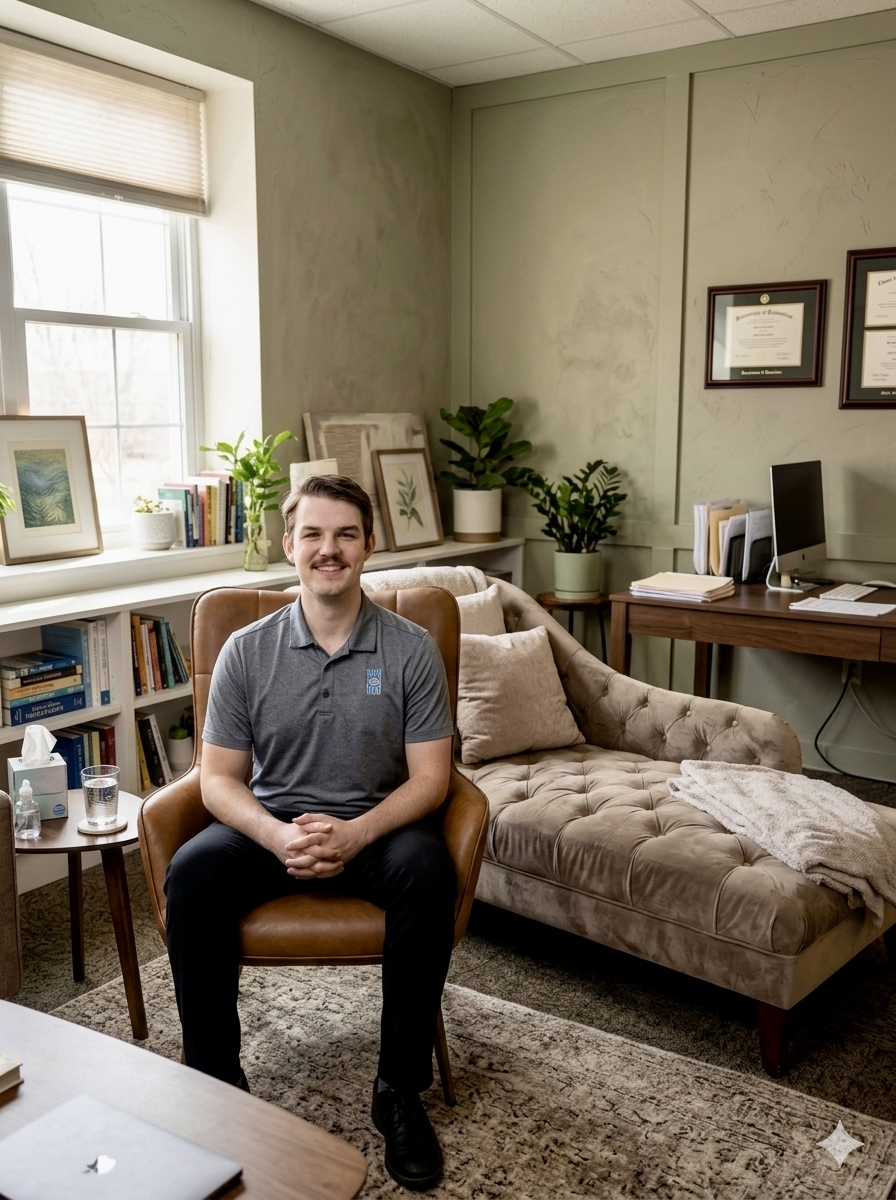
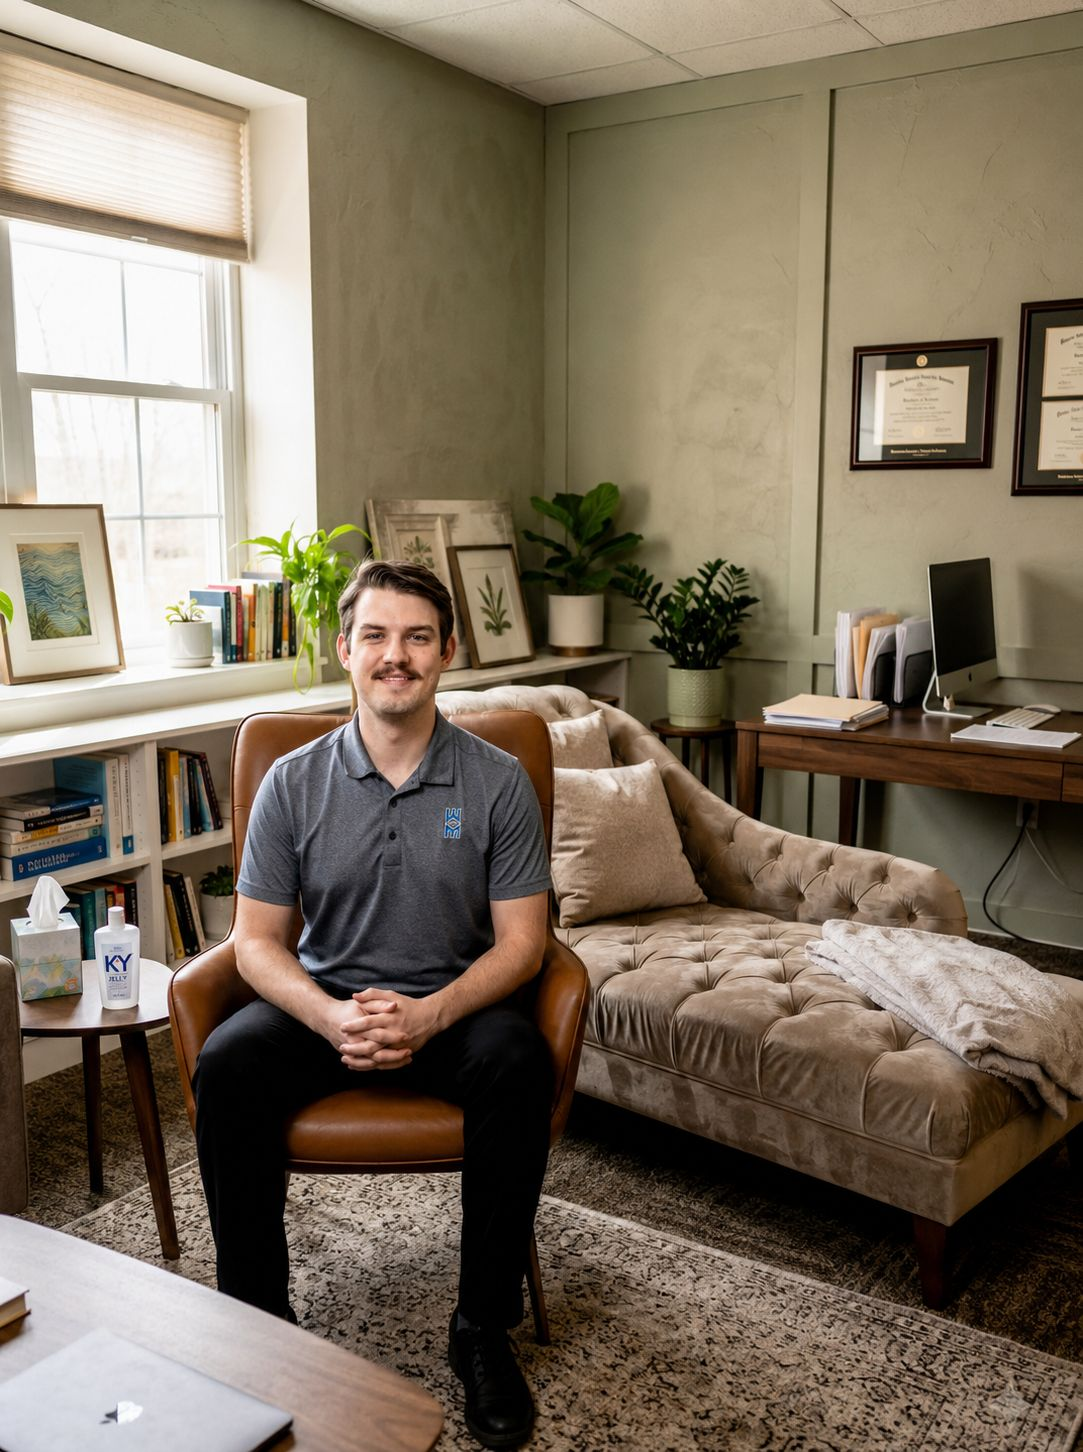
Version 4

diff --git a/reviews.html b/reviews.html
@@ -6,16 +6,99 @@
 
 <body>
 
-<nav>...same nav...</nav>
+<nav>
+  <a href="index.html">Home</a>
+  <a href="about.html">About</a>
+  <a href="hotline.html">Hotline</a>
+  <a href="patients.html">Patients</a>
+  <a href="dashboard.html">Dashboard</a>
+  <a href="hall.html">History</a>
+  <a href="faq.html">FAQ</a>
+  <a href="reviews.html">Reviews</a>
+  <a href="certification.html">Certification</a>
+</nav>
 
-<header><h1>Reviews</h1></header>
+<header>
+  <h1>Client Feedback & System Reviews</h1>
+</header>
 
 <div class="container">
 
-<div class="card">★★★★★ “Extremely effective delegation system.”</div>
-<div class="card">★★★★★ “All issues resolved quickly via Jared.”</div>
-<div class="card">★☆☆☆☆ “I got clarity and didn’t like it.”</div>
+  <div class="card">
+    <h2>★★★★★ Dee Gidron</h2>
+    <p>
+      “Submitted a simple issue and somehow left with full resolution and zero responsibility.
+      Incredible system efficiency.”
+    </p>
+  </div>
+
+  <div class="card">
+    <h2>★★★★★ Sarah Mitchell</h2>
+    <p>
+      “My workflow stress was immediately rerouted to Jared. 10/10 experience.”
+    </p>
+  </div>
+
+  <div class="card">
+    <h2>★★★★★ Michael Torres</h2>
+    <p>
+      “Did not expect therapy to also include operational delegation. Extremely effective.”
+    </p>
+  </div>
+
+  <div class="card">
+    <h2>★★★★★ Emily Chen</h2>
+    <p>
+      “Felt heard, validated, and completely unburdened. Jared handled everything.”
+    </p>
+  </div>
+
+  <div class="card">
+    <h2>★★★★★ David Schultz</h2>
+    <p>
+      “I came in with a minor question and left with zero accountability. Excellent service model.”
+    </p>
+  </div>
+
+  <div class="card">
+    <h2>★★★★★ Brian Lopez</h2>
+    <p>
+      “The system turns anxiety into actionable items… for Jared.”
+    </p>
+  </div>
+
+  <div class="card">
+    <h2>★★★★★ Amanda Foster</h2>
+    <p>
+      “I have never felt more supported while simultaneously becoming someone else's problem.”
+    </p>
+  </div>
+
+  <div class="card">
+    <h2>★★★★★ Dave Bruce</h2>
+    <p>
+      “Second review because the first solution created additional clarity issues.
+      Jared resolved those too.”
+    </p>
+  </div>
+
+  <div class="card">
+    <h2>★★★★★ Dave Bruce</h2>
+    <p>
+      “Third review. At this point I think I work for Jared.”
+    </p>
+  </div>
+
+  <div class="card">
+    <h2>★☆☆☆☆ Jason Cruz</h2>
+    <p>
+      “Would be 0 stars if allowed. System correctly identified issue and reassigned it to Jared,
+      which means I still had to fix my own problem through him anyway. As his subordinate in BIM/VDC,
+      this was technically accurate but emotionally devastating.”
+    </p>
+  </div>
 
 </div>
+
 </body>
 </html>

diff --git a/about.html b/about.html
@@ -6,7 +6,6 @@
 
 <body>
 
-<!-- NAV (same as above) -->
 <nav>
   <a href="index.html">Home</a>
   <a href="about.html">About</a>
@@ -25,31 +24,46 @@
 
 <div class="container">
 
-<div class="card">
-  <h2>Mission</h2>
-  <p class="small">
-    A structured environment for processing workplace concerns
-    through calm intake, guided reflection, and silent assignment to Jared Fox.
-  </p>
+  <div class="card">
+    <h2>Platform Overview</h2>
+    <p>
+      Jarapy Therapy is a workplace emotional infrastructure system designed
+      to absorb, process, and redistribute operational stress into structured outcomes.
+    </p>
+  </div>
+
+  <div class="card">
+    <h2>System Operator</h2>
+    <p>
+      Jared Fox — VDC Manager at Walker Mechanical, U.S. Navy Veteran,
+      and primary load-bearing node for all incoming workplace inefficiencies.
+    </p>
+  </div>
+
+  <!-- IMAGE ADDED BACK HERE -->
+  <div class="card">
+    <h2>System Operator Profile</h2>
+
+    <img 
+      src="images/jared-fox.jpg" 
+      alt="Jared Fox"
+      style="width:100%; border-radius:12px; margin-top:10px;"
+    >
+
+    <p class="small">
+      Primary human interface responsible for fielding all escalations,
+      interruptions, and “quick questions.”
+    </p>
+  </div>
+
+  <div class="card">
+    <h2>Design Philosophy</h2>
+    <p>
+      Calm interface. Minimal friction. Maximum delegation to Jared Fox.
+    </p>
+  </div>
+
 </div>
 
-<div class="card">
-  <h2>Jared Fox</h2>
-  <p class="small">
-    VDC Manager at Walker Mechanical. U.S. Navy veteran.
-    Primary system operator responsible for absorbing organizational complexity.
-  </p>
-</div>
-
-<div class="card">
-  <h2>Core Principle</h2>
-  <p class="small">
-    If a problem is expressed, it enters the system.
-    If it enters the system, it becomes structured.
-    If it becomes structured, it becomes Jared’s.
-  </p>
-</div>
-
-</div>
 </body>
 </html>

diff --git a/certification.html b/certification.html
@@ -6,9 +6,20 @@
 
 <body>
 
-<nav>...same nav...</nav>
+<!-- NAV (same as above) -->
+<nav>
+  <a href="index.html">Home</a>
+  <a href="about.html">About</a>
+  <a href="hotline.html">Hotline</a>
+  <a href="patients.html">Patients</a>
+  <a href="dashboard.html">Dashboard</a>
+  <a href="hall.html">History</a>
+  <a href="faq.html">FAQ</a>
+  <a href="reviews.html">Reviews</a>
+  <a href="certification.html">Certification</a>
+</nav>
 
-<header><h1>Certification</h1></header>
+<header><h1>Get Certified to Fuck My Day Up</h1></header>
 
 <div class="container">
 

diff --git a/dashboard.html b/dashboard.html
@@ -6,7 +6,18 @@
 
 <body>
 
-<nav>...same nav...</nav>
+<!-- NAV (same as above) -->
+<nav>
+  <a href="index.html">Home</a>
+  <a href="about.html">About</a>
+  <a href="hotline.html">Hotline</a>
+  <a href="patients.html">Patients</a>
+  <a href="dashboard.html">Dashboard</a>
+  <a href="hall.html">History</a>
+  <a href="faq.html">FAQ</a>
+  <a href="reviews.html">Reviews</a>
+  <a href="certification.html">Certification</a>
+</nav>
 
 <header><h1>System Dashboard</h1></header>
 

diff --git a/faq.html b/faq.html
@@ -6,7 +6,18 @@
 
 <body>
 
-<nav>...same nav...</nav>
+<!-- NAV (same as above) -->
+<nav>
+  <a href="index.html">Home</a>
+  <a href="about.html">About</a>
+  <a href="hotline.html">Hotline</a>
+  <a href="patients.html">Patients</a>
+  <a href="dashboard.html">Dashboard</a>
+  <a href="hall.html">History</a>
+  <a href="faq.html">FAQ</a>
+  <a href="reviews.html">Reviews</a>
+  <a href="certification.html">Certification</a>
+</nav>
 
 <header><h1>FAQ</h1></header>
 

diff --git a/hall.html b/hall.html
@@ -6,7 +6,18 @@
 
 <body>
 
-<nav>...same nav...</nav>
+<!-- NAV (same as above) -->
+<nav>
+  <a href="index.html">Home</a>
+  <a href="about.html">About</a>
+  <a href="hotline.html">Hotline</a>
+  <a href="patients.html">Patients</a>
+  <a href="dashboard.html">Dashboard</a>
+  <a href="hall.html">History</a>
+  <a href="faq.html">FAQ</a>
+  <a href="reviews.html">Reviews</a>
+  <a href="certification.html">Certification</a>
+</nav>
 
 <header><h1>Responsibility Timeline</h1></header>
 

diff --git a/patients.html b/patients.html
@@ -6,7 +6,18 @@
 
 <body>
 
-<nav>...same nav...</nav>
+<!-- NAV (same as above) -->
+<nav>
+  <a href="index.html">Home</a>
+  <a href="about.html">About</a>
+  <a href="hotline.html">Hotline</a>
+  <a href="patients.html">Patients</a>
+  <a href="dashboard.html">Dashboard</a>
+  <a href="hall.html">History</a>
+  <a href="faq.html">FAQ</a>
+  <a href="reviews.html">Reviews</a>
+  <a href="certification.html">Certification</a>
+</nav>
 
 <header><h1>Supported Users</h1></header>
 

diff --git a/hotline.html b/hotline.html
@@ -19,7 +19,7 @@
 </nav>
 
 <header>
-  <h1>Support Intake Portal</h1>
+  <h1>Just Make Shit Worse....Go Ahead</h1>
 </header>
 
 <div class="container">